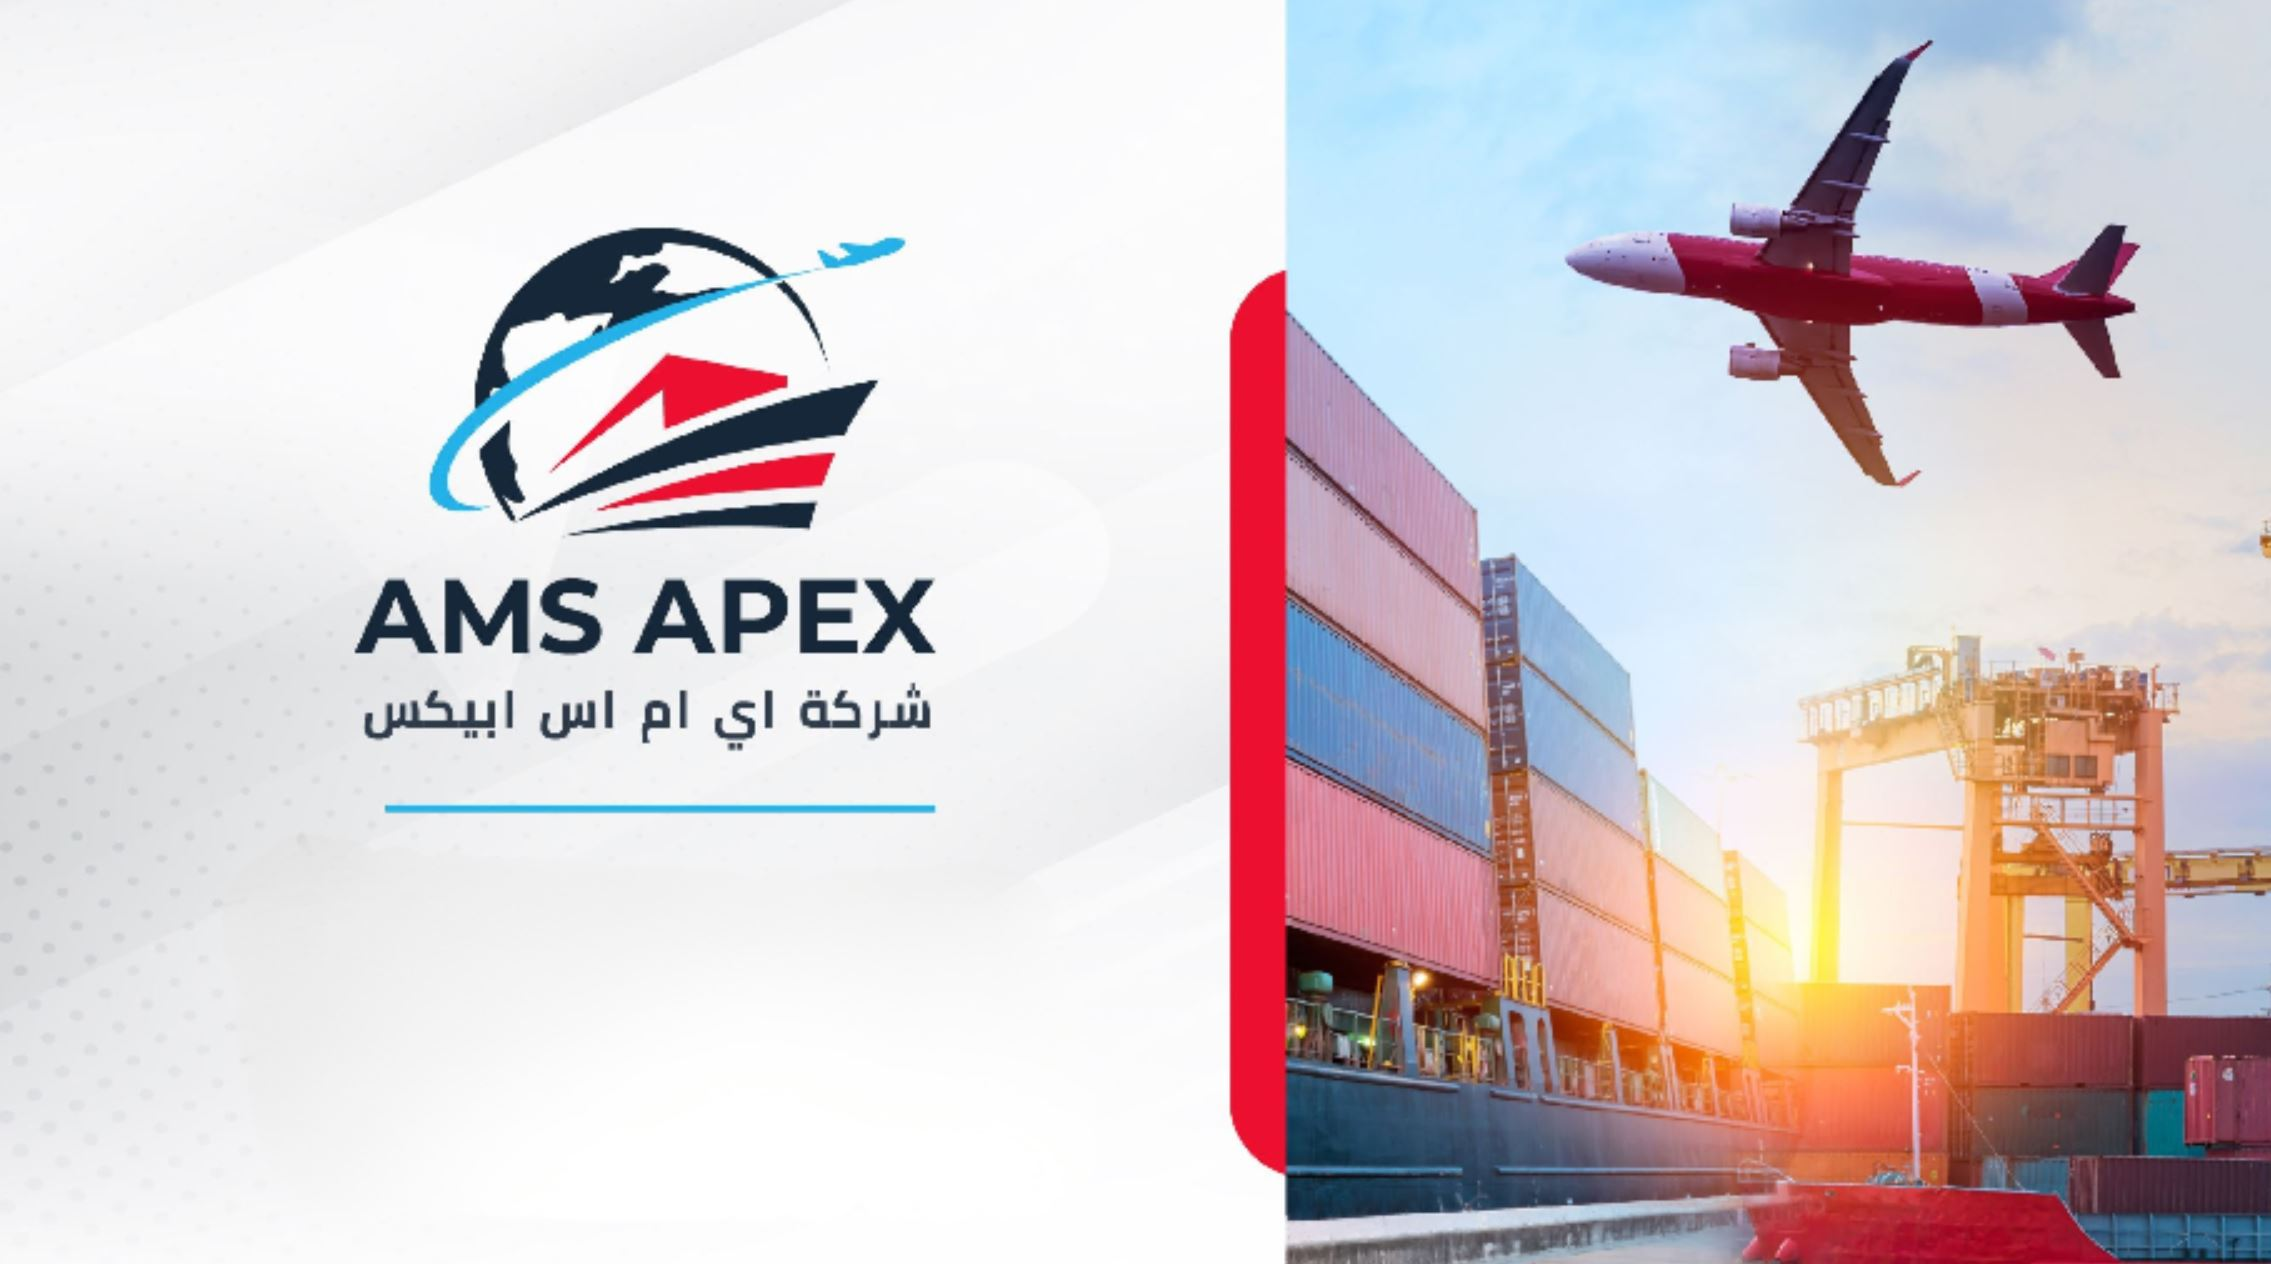
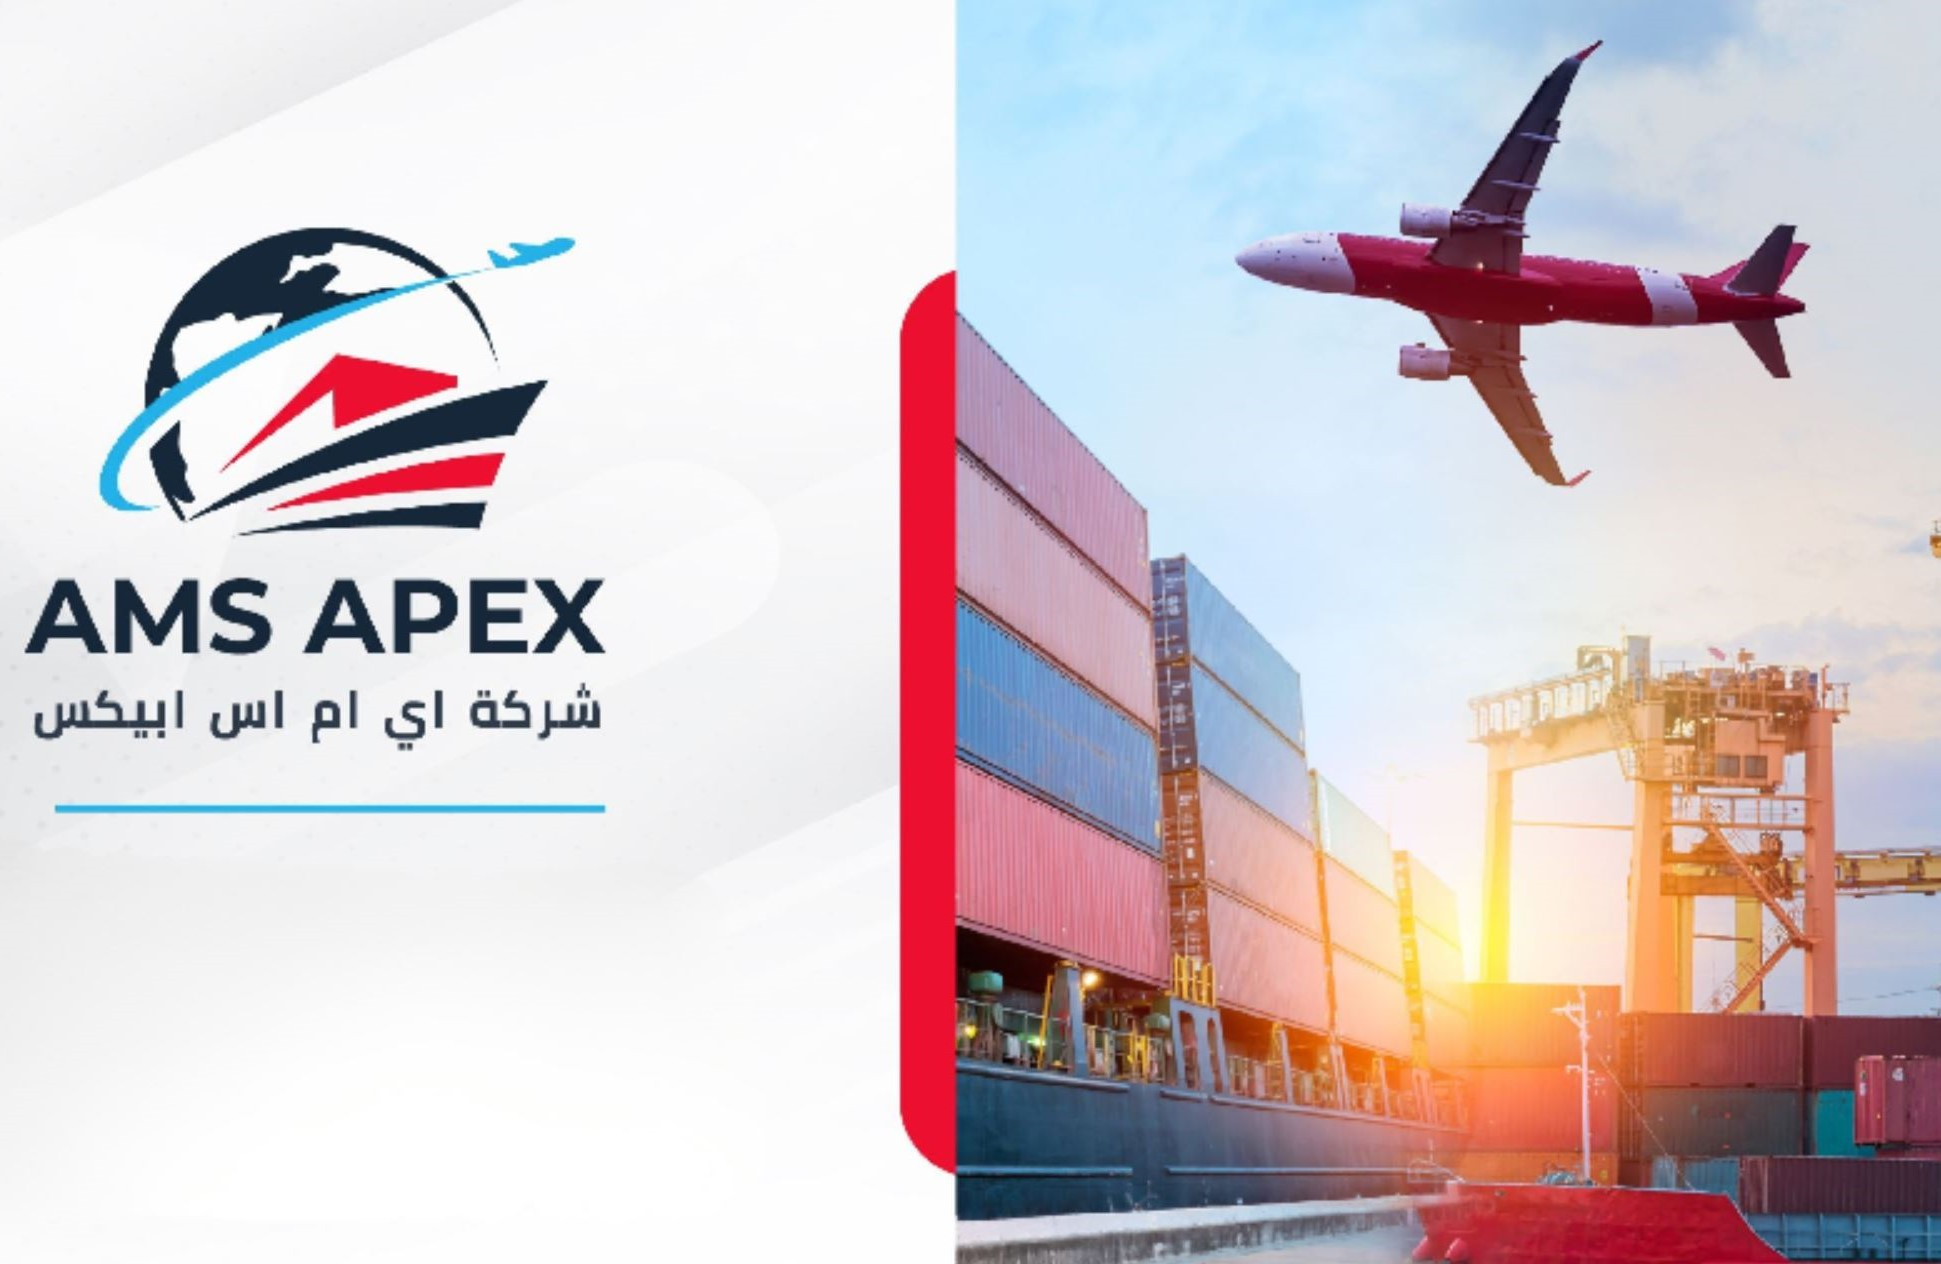
Segments and services header

diff --git a/src/component/segmentsServices/SegmentsServices.js b/src/component/segmentsServices/SegmentsServices.js
@@ -1,9 +1,24 @@
 import React from 'react'
+import { Typography, Paper } from "@mui/material";
+import SegmentsServicesPhoto from "../../asset/segmentsServices/segmentsServicesHome.JPG"
 
+import "./SegmentsServices.css"
 function SegmentsServices() {
   return (
-    <div>SegmentsServices</div>
-  )
+    <div className="segments-services-component">
+      <div className="segments-services-header-container">
+        <Typography variant="h3">Segments & Services</Typography>
+        <img
+          src={SegmentsServicesPhoto}
+          alt="segments-services-home"
+          width={"40%"}
+        />
+      </div>
+      <div className="segments-services-body-container">
+        <Paper elevation={2} sx={{ p: 3 }}></Paper>
+      </div>
+    </div>
+  );
 }
 
 export default SegmentsServices

diff --git a/src/component/segmentsServices/SegmentsServices.css b/src/component/segmentsServices/SegmentsServices.css
@@ -4,3 +4,28 @@
  --background-color: rgb(22,39,57);
  --background-img-color: rgb(245,246,248);
 }
+
+.css-13xfq8m-MuiTabPanel-root{
+ width: 100%;
+}
+
+.segments-services-header-container{
+ display: flex;
+ align-items: center;
+ justify-content: center;
+ gap: 1rem;
+ margin-bottom: 2rem;
+}
+
+.segments-services-header-container > h3 {
+ color: var(--color-title);
+}
+.segments-services-component{
+ display: flex;
+ flex-direction: column;
+ align-items: center;
+}
+
+.segments-services-body-container{
+ width: 70%;
+}
